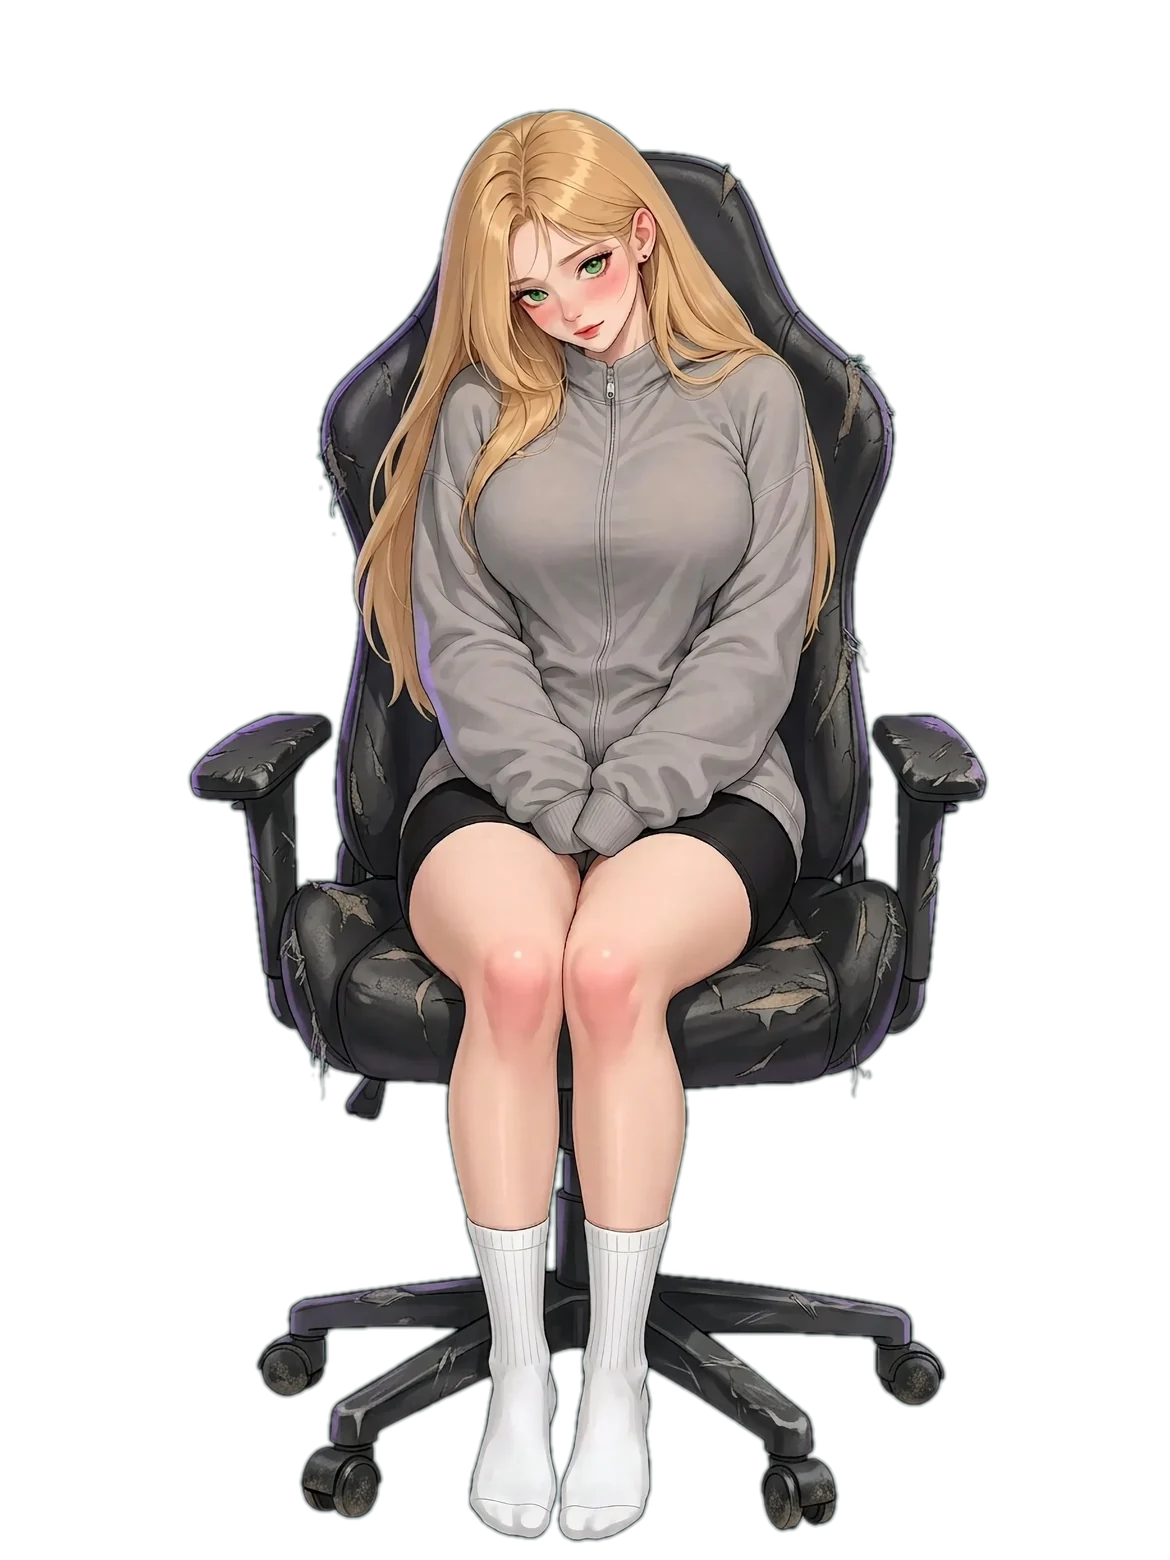
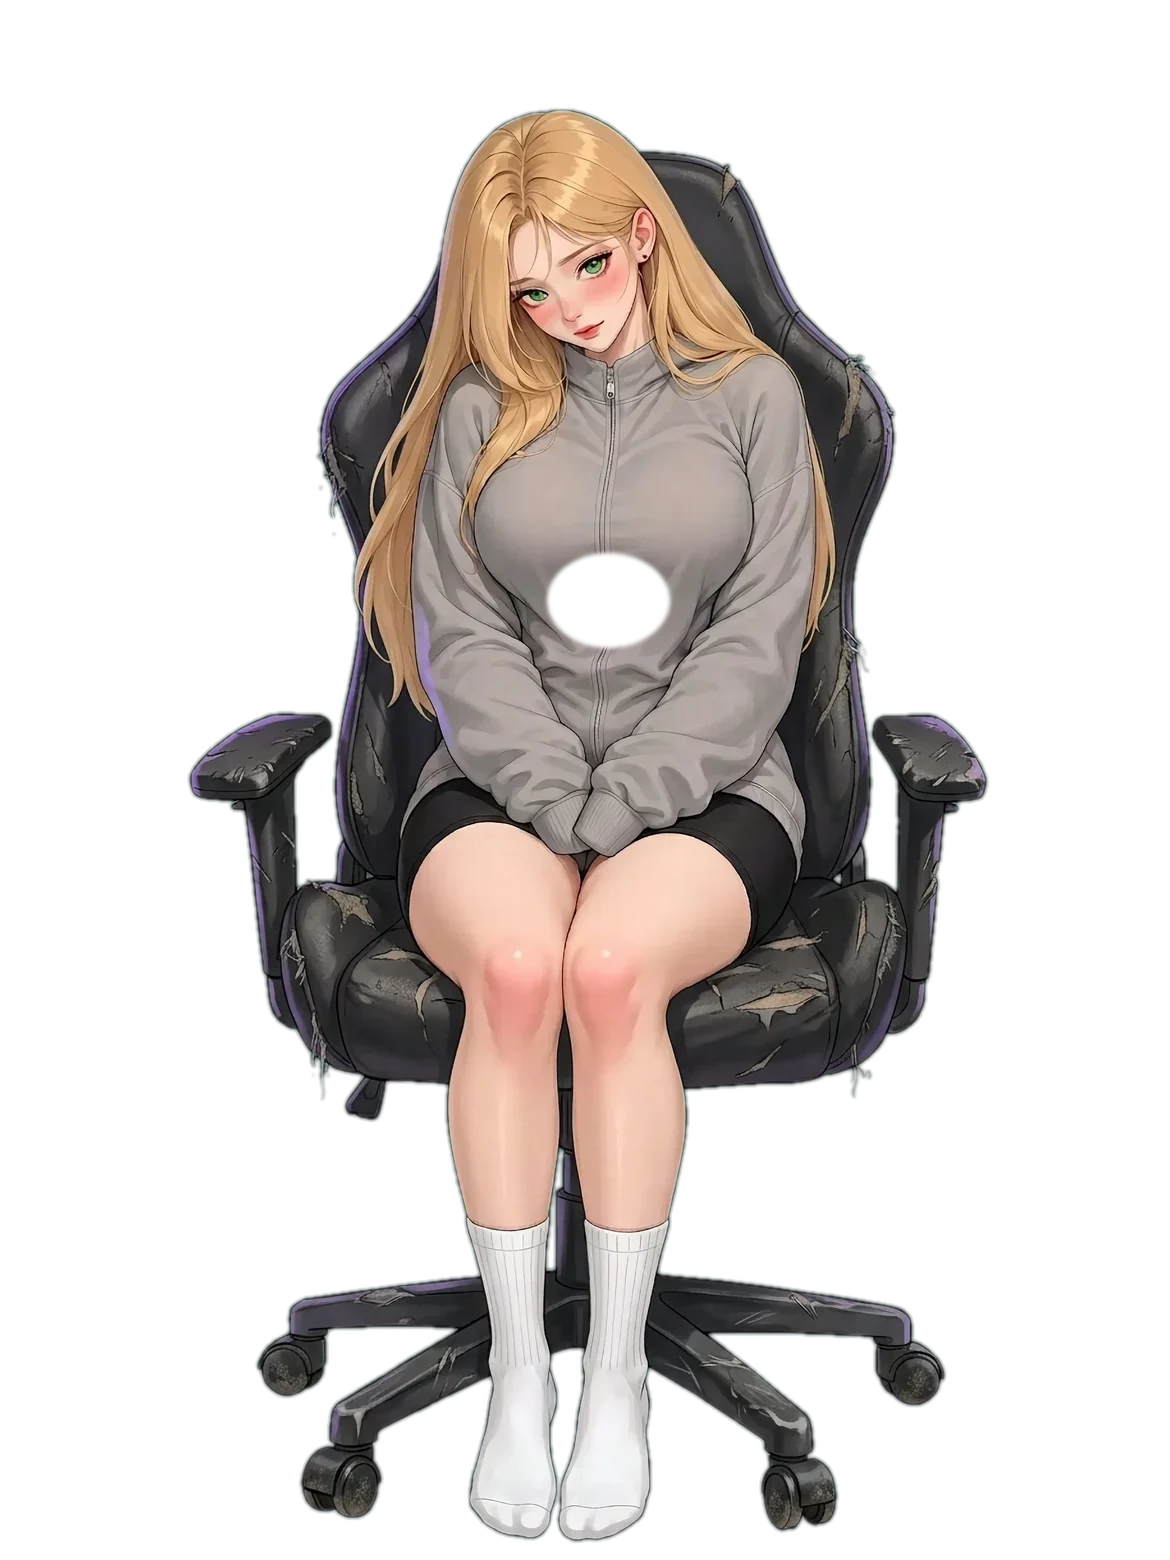
Chest physics without ghosting: base sprites now carry a soft window under the bust (0.58 of the mask), so the prop leaves no old pixels behind; hard-core alpha on the prop; spring rewritten as real damped motion (fast fall, decelerating rebound, four decaying oscillations, 1.15s, ~0.9% of frame); p

Changed region(s): [[0.4615, 0.3385, 0.5846, 0.4308]]

diff --git a/index.html b/index.html
@@ -986,31 +986,35 @@ main{
 .hero .art-chest{
   position:absolute; left:22%; top:12%; width:56%; height:38%;
   background-position:50% 50%; background-size:100% 100%; background-repeat:no-repeat;
-  z-index:4; pointer-events:none; transform-origin:50% 32%;
+  z-index:4; pointer-events:none; transform-origin:50% 10%;
   opacity:0; transition:opacity .3s ease;
   will-change:transform;
 }
 .hero .art-chest.on{ opacity:1; }
+/* пока наверху нарисованный кадр эмоции, свой проп груди прячем:
+   его пиксели из базового кадра, а у кадра-эмоции грудь уже своя */
+.hero .art-chest.on.hidden{ opacity:0; }
 
 /* грудь проседает, сплющивается и пружинит обратно */
+/* пружина по физике: быстрое падение (ускорение), отскок с замедлением,
+   четыре затухающих колебания. Амплитуда ~0.9 % кадра — мягко, не «дёргается». */
 @keyframes chestJiggle{
-  0%   { transform:translateY(0)     scale(1, 1); }
-  10%  { transform:translateY(1.1%)  scale(1.003, 1.005); }
-  26%  { transform:translateY(3.2%)  scale(1.009, 1.019); }
-  44%  { transform:translateY(-1.4%) scale(0.995, 0.991); }
-  60%  { transform:translateY(0.8%)  scale(1.004, 1.006); }
-  76%  { transform:translateY(-0.38%) scale(0.9986, 0.9978); }
-  89%  { transform:translateY(0.15%) scale(1.0009, 1.0011); }
-  100% { transform:translateY(0)     scale(1, 1); }
+  0%   { transform:translateY(0)      scale(1, 1);          animation-timing-function:cubic-bezier(.45,0,.95,.55); }
+  7%   { transform:translateY(2.1%)   scale(1.005, 1.013);  animation-timing-function:cubic-bezier(.2,.72,.3,1); }
+  23%  { transform:translateY(-0.85%) scale(0.997, 0.994);  animation-timing-function:cubic-bezier(.3,.7,.4,1); }
+  40%  { transform:translateY(0.38%)  scale(1.002, 1.004);  animation-timing-function:cubic-bezier(.3,.7,.4,1); }
+  57%  { transform:translateY(-0.16%) scale(0.9994, 0.9988); animation-timing-function:cubic-bezier(.3,.7,.4,1); }
+  74%  { transform:translateY(0.06%)  scale(1.0003, 1.0006); }
+  100% { transform:translateY(0)      scale(1, 1); }
 }
-.hero .art-chest.hit{ animation:chestJiggle .95s cubic-bezier(.26,.72,.3,1); }
+.hero .art-chest.hit{ animation:chestJiggle 1.15s linear; }
 /* дыхание: на 4-й стадии грудь тяжелее — дышит заметнее */
 @keyframes chestBreathe{
   0%,100% { transform:translateY(0)     scale(1, 1); }
   50%     { transform:translateY(.35%)  scale(1, 1.006); }
 }
 .hero .art-chest.breathe{ animation:chestBreathe var(--breathe,4.6s) ease-in-out infinite; }
-.hero .art-chest.hit.breathe{ animation:chestJiggle .95s cubic-bezier(.26,.72,.3,1); }
+.hero .art-chest.hit.breathe{ animation:chestJiggle 1.15s linear; }
 @media (prefers-reduced-motion: reduce){
   .hero .art-chest.hit, .hero .art-chest.breathe,
   .hero .art-chest.hit.breathe{ animation:none; }
@@ -1814,6 +1818,7 @@ function emoSmile(on, ms){
   if (!shy || !EMO.tag) return;
   EMO.shy = !!on;
   shy.classList.toggle('on', !!on);
+  if (el.artChest) el.artChest.classList.toggle('hidden', !!on);
   clearTimeout(EMO.shyTimer);
   if (on && ms) EMO.shyTimer = setTimeout(() => { EMO.shy = false; shy.classList.remove('on'); }, ms);
 }

diff --git a/tools/prep_light.py b/tools/prep_light.py
@@ -31,6 +31,30 @@ def shrink(src, dest, size):
     print(f'{os.path.basename(dest)} {size} {os.path.getsize(dest)/1e6:.2f} MB')
 
 
+def punch_hole(tag):
+    """Вырезаем в базовом кадре окно под грудью.
+
+    Без этого патч, уезжая, оставляет под собой старые пиксели — виден
+    гостинг (двойной контур). Окно меньше патча (82 % эллипса), поэтому
+    край окна всегда закрыт непрозрачной серединой патча.
+    """
+    cx, cy, rx, ry = MASK[tag]
+    for name in (f'art_day1_{tag}.webp', f'art_day1_{tag}_sm.webp'):
+        path = os.path.join(A, name)
+        im = Image.open(path).convert('RGBA')
+        W, H = im.size
+        m = Image.new('L', (W, H), 0)
+        k = 0.58
+        box = [int((cx-rx*k)*W), int((cy-ry*k)*H), int((cx+rx*k)*W), int((cy+ry*k)*H)]
+        ImageDraw.Draw(m).ellipse(box, fill=255)
+        m = m.filter(ImageFilter.GaussianBlur(max(2, int(min(rx*k*W, ry*k*H)*0.06))))
+        arr = np.array(im)
+        arr[..., 3] = (arr[..., 3].astype(np.float32) * (1 - np.array(m).astype(np.float32)/255)).astype('uint8')
+        Image.fromarray(arr, 'RGBA').save(path, 'WEBP', quality=90 if 'sm' not in name else 86,
+                                          alpha_quality=100, method=6)
+        print(f'окно: {name} {W}x{H} {os.path.getsize(path)/1e6:.2f} MB')
+
+
 def chest_patch(tag):
     im = Image.open(os.path.join(A, f'art_day1_{tag}.webp')).convert('RGBA')
     W, H = im.size
@@ -48,11 +72,14 @@ def chest_patch(tag):
     mrx = rx / (x1 - x0) * mw
     mry = ry / (y1 - y0) * mh
 
+    # жёсткое ядро + растушёвка только по внешнему кольцу:
+    # иначе у края патч полупрозрачный и под ним просвечивает «окно»
     mask = Image.new('L', (mw, mh), 0)
-    d = ImageDraw.Draw(mask)
-    d.ellipse([mx-mrx, my-mry, mx+mrx, my+mry], fill=255)
-    mask = mask.filter(ImageFilter.GaussianBlur(max(3, int(min(mrx, mry)*0.75))))
-    mask = Image.fromarray(np.clip((np.array(mask).astype(np.float32)-6)/249*255, 0, 255).astype('uint8'))
+    ImageDraw.Draw(mask).ellipse([mx-mrx, my-mry, mx+mrx, my+mry], fill=255)
+    soft = mask.filter(ImageFilter.GaussianBlur(max(2, int(min(mrx, mry)*0.24))))
+    core = Image.new('L', (mw, mh), 0)
+    ImageDraw.Draw(core).ellipse([mx-mrx*0.70, my-mry*0.86, mx+mrx*0.70, my+mry*0.86], fill=255)
+    mask = Image.fromarray(np.maximum(np.array(soft), np.array(core)))
 
     arr = np.array(crop)
     arr[..., 3] = (np.array(mask).astype(np.float32) * (arr[..., 3].astype(np.float32)/255)).astype('uint8')
@@ -66,6 +93,7 @@ if __name__ == '__main__':
     if only_chest:
         for tag in ('sg1', 'sg2', 'sg3', 'sg4'):
             chest_patch(tag)
+            punch_hole(tag)
         sys.exit(0)
     for tag in ('sg1', 'sg2', 'sg3', 'sg4'):
         shrink(os.path.join(A, f'art_day1_{tag}.webp'), os.path.join(A, f'art_day1_{tag}_sm.webp'), SM_SPRITE)
